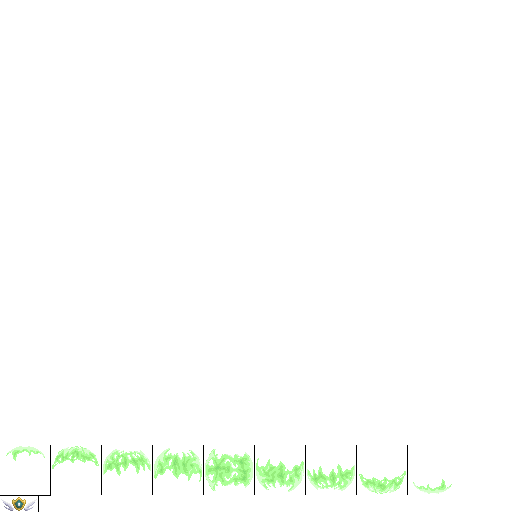
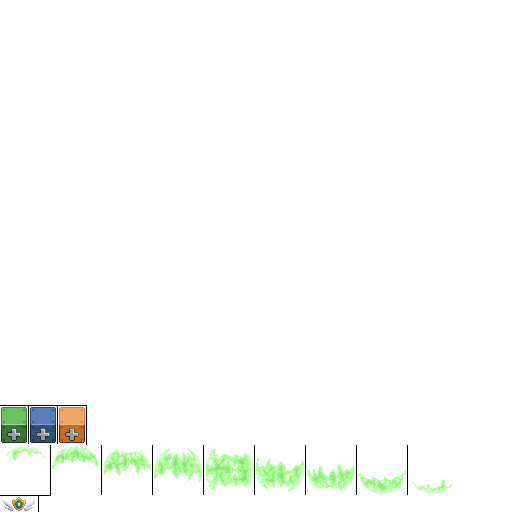
[FIX] Item drops

Changed region(s): [[0.0, 0.7812, 0.1875, 0.875]]

diff --git a/opengltest/EntityManager.cpp b/opengltest/EntityManager.cpp
@@ -10,6 +10,11 @@ EntityManager::EntityManager()
 
 	projectileManager = ProjectileManager::instance();
 	playerLoaded = false;
+
+	Sprite* tmp = new Sprite("assets/items.png");
+	Item::itemSheet->sheet = tmp->sheet;
+	Item::itemSheet->setLayerID(1);
+	free(tmp);
 }
 
 void EntityManager::Update(float dTime)
@@ -49,36 +54,50 @@ void EntityManager::DeleteEntity(int index)
 {
 	entitytype t = entityVector[index]->GetType();
 	float val = (float)rand() / RAND_MAX;
-	DroppedItem di;
-	di.pickup.bottom = entityVector[index]->getY();
-	di.pickup.top = entityVector[index]->getY() + 8;
-	di.pickup.left = entityVector[index]->getX();
-	di.pickup.right = entityVector[index]->getX() + 8;
-	di.drop = new Sprite;
-	di.drop->setPosition(di.pickup.left, di.pickup.bottom);
-	di.drop->setSpriteFrameSize(8, 8);
-	di.drop->setNumberOfAnimations(1);
-	di.drop->setCurrentAnimation(0);
-	di.drop->sheet = Item::itemSheet->sheet;
+	int sz = droppedItems.size();
+	DroppedItem* di = new DroppedItem;
+	di->pickup.bottom = entityVector[index]->getY();
+	di->pickup.top = entityVector[index]->getY() + 28 * 0.25f;
+	di->pickup.left = entityVector[index]->getX();
+	di->pickup.right = entityVector[index]->getX() + 38 * 0.25f;
+	di->drop = new Sprite();
+	di->drop->setPosition(di->pickup.left, di->pickup.bottom);
+	di->drop->sheet = Item::itemSheet->sheet;
+	di->drop->setSpriteFrameSize(28, 38);
+	di->drop->setNumberOfAnimations(1);
+	di->drop->setCurrentAnimation(0);
+	di->qual = 0;
 	if (t == ENEMY)
 	{
 		if (val < 0.15)
 		{
-			di.itemId = 0;
-			di.qual = 1;
-			di.drop->addSpriteAnimFrame(0, 0, 0);
-			droppedItems.push_back(di);
+			di->itemId = 0;
+			di->qual = 1;
 		}	
 	}
 	else if (t == ELITE)
 	{
 		if (val < 0.5)
 		{
-			di.itemId = 0;
-			di.qual = 1;
-			di.drop->addSpriteAnimFrame(0, 0, 0);
-			droppedItems.push_back(di);
+			di->itemId = 0;
+			di->qual = 2;
 		}
+	}
+	else if (t == BOSS || (t >= MINIBOSS1 && t <= MINIBOSS6))
+	{
+		di->itemId = 0;
+		di->qual = 3;
+	}
+
+	if (di->qual != 0)
+	{
+		switch (di->qual)
+		{
+		case 1: di->drop->addSpriteAnimFrame(0, 0, 67); break;
+		case 2: di->drop->addSpriteAnimFrame(0, 29, 67); break;
+		case 3: di->drop->addSpriteAnimFrame(0, 58, 67); break;
+		}
+		droppedItems.push_back(di);
 	}
 
 	free(entityVector[index]);
@@ -93,6 +112,7 @@ void EntityManager::Clear()
 {
 	for (int i = entityVector.size() - 1; i > 0; i--)
 		entityVector.erase(entityVector.begin() + i);
+	droppedItems.clear();
 }
 
 void EntityManager::HandleInput(char key, bool press)
@@ -105,8 +125,8 @@ void EntityManager::DrawAll(float x, float y)
 {
 	for (int i = 0, size = entityVector.size(); i < size; i++)
 		entityVector[i]->draw();
-	for (int i = 0, size = droppedItems.size(); i < size; i++)
-		droppedItems[i].drop->draw(1.f);
+	for (int i = droppedItems.size() - 1; i >= 0; i--)
+		droppedItems[i]->drop->draw(0.25f);
 }
 
 void EntityManager::ModPosOfID(int id, vec2 mod)

diff --git a/opengltest/ColisionManager.cpp b/opengltest/ColisionManager.cpp
@@ -102,7 +102,7 @@ void ColisionManager::Update()
 		{
 			for (int i = EntityManager::instance()->droppedItems.size() - 1; i >= 0; i--)
 			{
-				RECT drop = EntityManager::instance()->droppedItems[i].pickup;
+				RECT drop = EntityManager::instance()->droppedItems[i]->pickup;
 				float l = drop.left - entPos.right;
 				float r = drop.right - entPos.left;
 				float t = drop.bottom - entPos.top;
@@ -110,7 +110,7 @@ void ColisionManager::Update()
 
 				if (!(l > 0 || r < 0 || t > 0 || b < 0))
 				{
-					entityManager->GiveItem(entityIter, EntityManager::instance()->droppedItems[i].itemId);
+					entityManager->GiveItem(entityIter, EntityManager::instance()->droppedItems[i]->itemId);
 					EntityManager::instance()->droppedItems.erase(EntityManager::instance()->droppedItems.begin() + i);
 					EntityManager::instance()->droppedItems.shrink_to_fit();
 				}

diff --git a/opengltest/EntityManager.h b/opengltest/EntityManager.h
@@ -56,7 +56,7 @@ public:
 
 	void GiveItem(int entNum, int itemId);
 
-	std::vector<DroppedItem> droppedItems;
+	std::vector<DroppedItem*> droppedItems;
 private:
 	EntityManager();
 	Sprite* entBarSprite;
